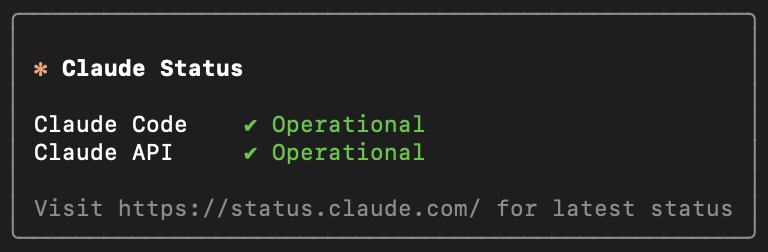
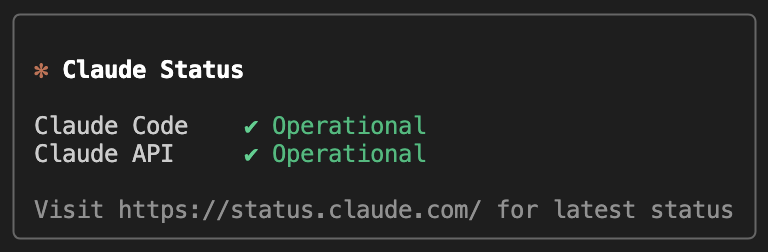
Polish readme and add demo screenshots

diff --git a/README.md b/README.md
@@ -1,11 +1,11 @@
 # downlaude
 
+CLI to check Claude's service status from your terminal.  
 <img src="https://raw.githubusercontent.com/dawsonhuang0/downlaude/main/demo.png" width="400" />
 
-> CLI to check Claude's service status from your terminal
+## Getting Started
 
-## Install
-
+Run the following command to install:
 ```bash
 npm install --global downlaude
 ```
@@ -13,37 +13,64 @@ npm install --global downlaude
 ## Usage
 
 ```bash
-downlaude          # show Claude API + Claude Code status
-downlaude --all    # show all Claude services
-downlaude --silent # no output; use exit code in scripts
+downlaude           # show Claude API + Claude Code status
+downlaude [options] # customize the output to what you need
 ```
 
-## Options
+### Options:
 
-| Flag | Description |
+| Flag & Alias | Description |
 |------|-------------|
-| `--all`,<br>`-a` | Show all Claude services |
-| `--silent`,<br>`-s` | No output. Exit `0` if operational, `1` if outage, `2` if unreachable |
-| `--help`,<br>`-h` | Show help |
+| `-a`,<br>`--all` | Show all Claude services |
+| `-s`,<br>`--silent` | No output. Exits with `0`, `1`, or `2` |
+| `-h`,<br>`--help` | Show help |
 
-## Exit codes (--silent)
+For example, with `--all` flag:
+<img src="https://raw.githubusercontent.com/dawsonhuang0/downlaude/main/demo-all.png" width="443" />
 
-| Code | Meaning |
+## Scripting Friendliness
+
+#### No output hassle 😍 perfectly silent so you can just catch the exit code!
+
+| Exit Code | Meaning |
 |------|---------|
 | `0` | All operational |
 | `1` | At least one outage |
 | `2` | Could not reach status page |
 
-By default `--silent` checks Claude API and Claude Code only. Combine with `--all` to check all services:
+### ⚠️ Scope of the Exit Code
 
+By default, `--silent` checks Claude API and Claude Code only:
 ```bash
-downlaude -s    # checks Claude API + Claude Code
-downlaude -s -a # checks all six services
+downlaude -silent # checks Claude API + Claude Code
 ```
 
-## Scripting
+Combine with `--all` to check all services:
+```bash
+downlaude -s -a   # checks all services
+downlaude -sa     # you can use short flags!
+```
+
+### Scripting Examples
 
 ```bash
-downlaude --silent || echo "Claude is having issues"
+downlaude --silent || echo "Claude is down"
 downlaude --silent --all && deploy.sh
 ```
+
+## Feedback
+
+**Found a bug?** Feel free to [open an issue](https://github.com/dawsonhuang0/downlaude/issues/new?labels=bug).  
+**New option/feature idea?** Don't hesitate to [share it with us](https://github.com/dawsonhuang0/downlaude/issues/new?labels=enhancement).
+
+## Acknowledgments
+
+- **[Ink](https://github.com/vadimdemedes/ink)** - For the terminal React UI framework.
+- **[React](https://reactjs.org/)** - For the component-driven foundation.
+- **[Anthropic](https://www.anthropic.com/)** - For the Status API powering this tool.
+- **[Claude Code](https://github.com/anthropics/claude-code)** - For inspiring the UX and theme detection design.
+
+## License
+
+Distributed under the MIT License.  
+See [`LICENSE`](LICENSE) for more information.